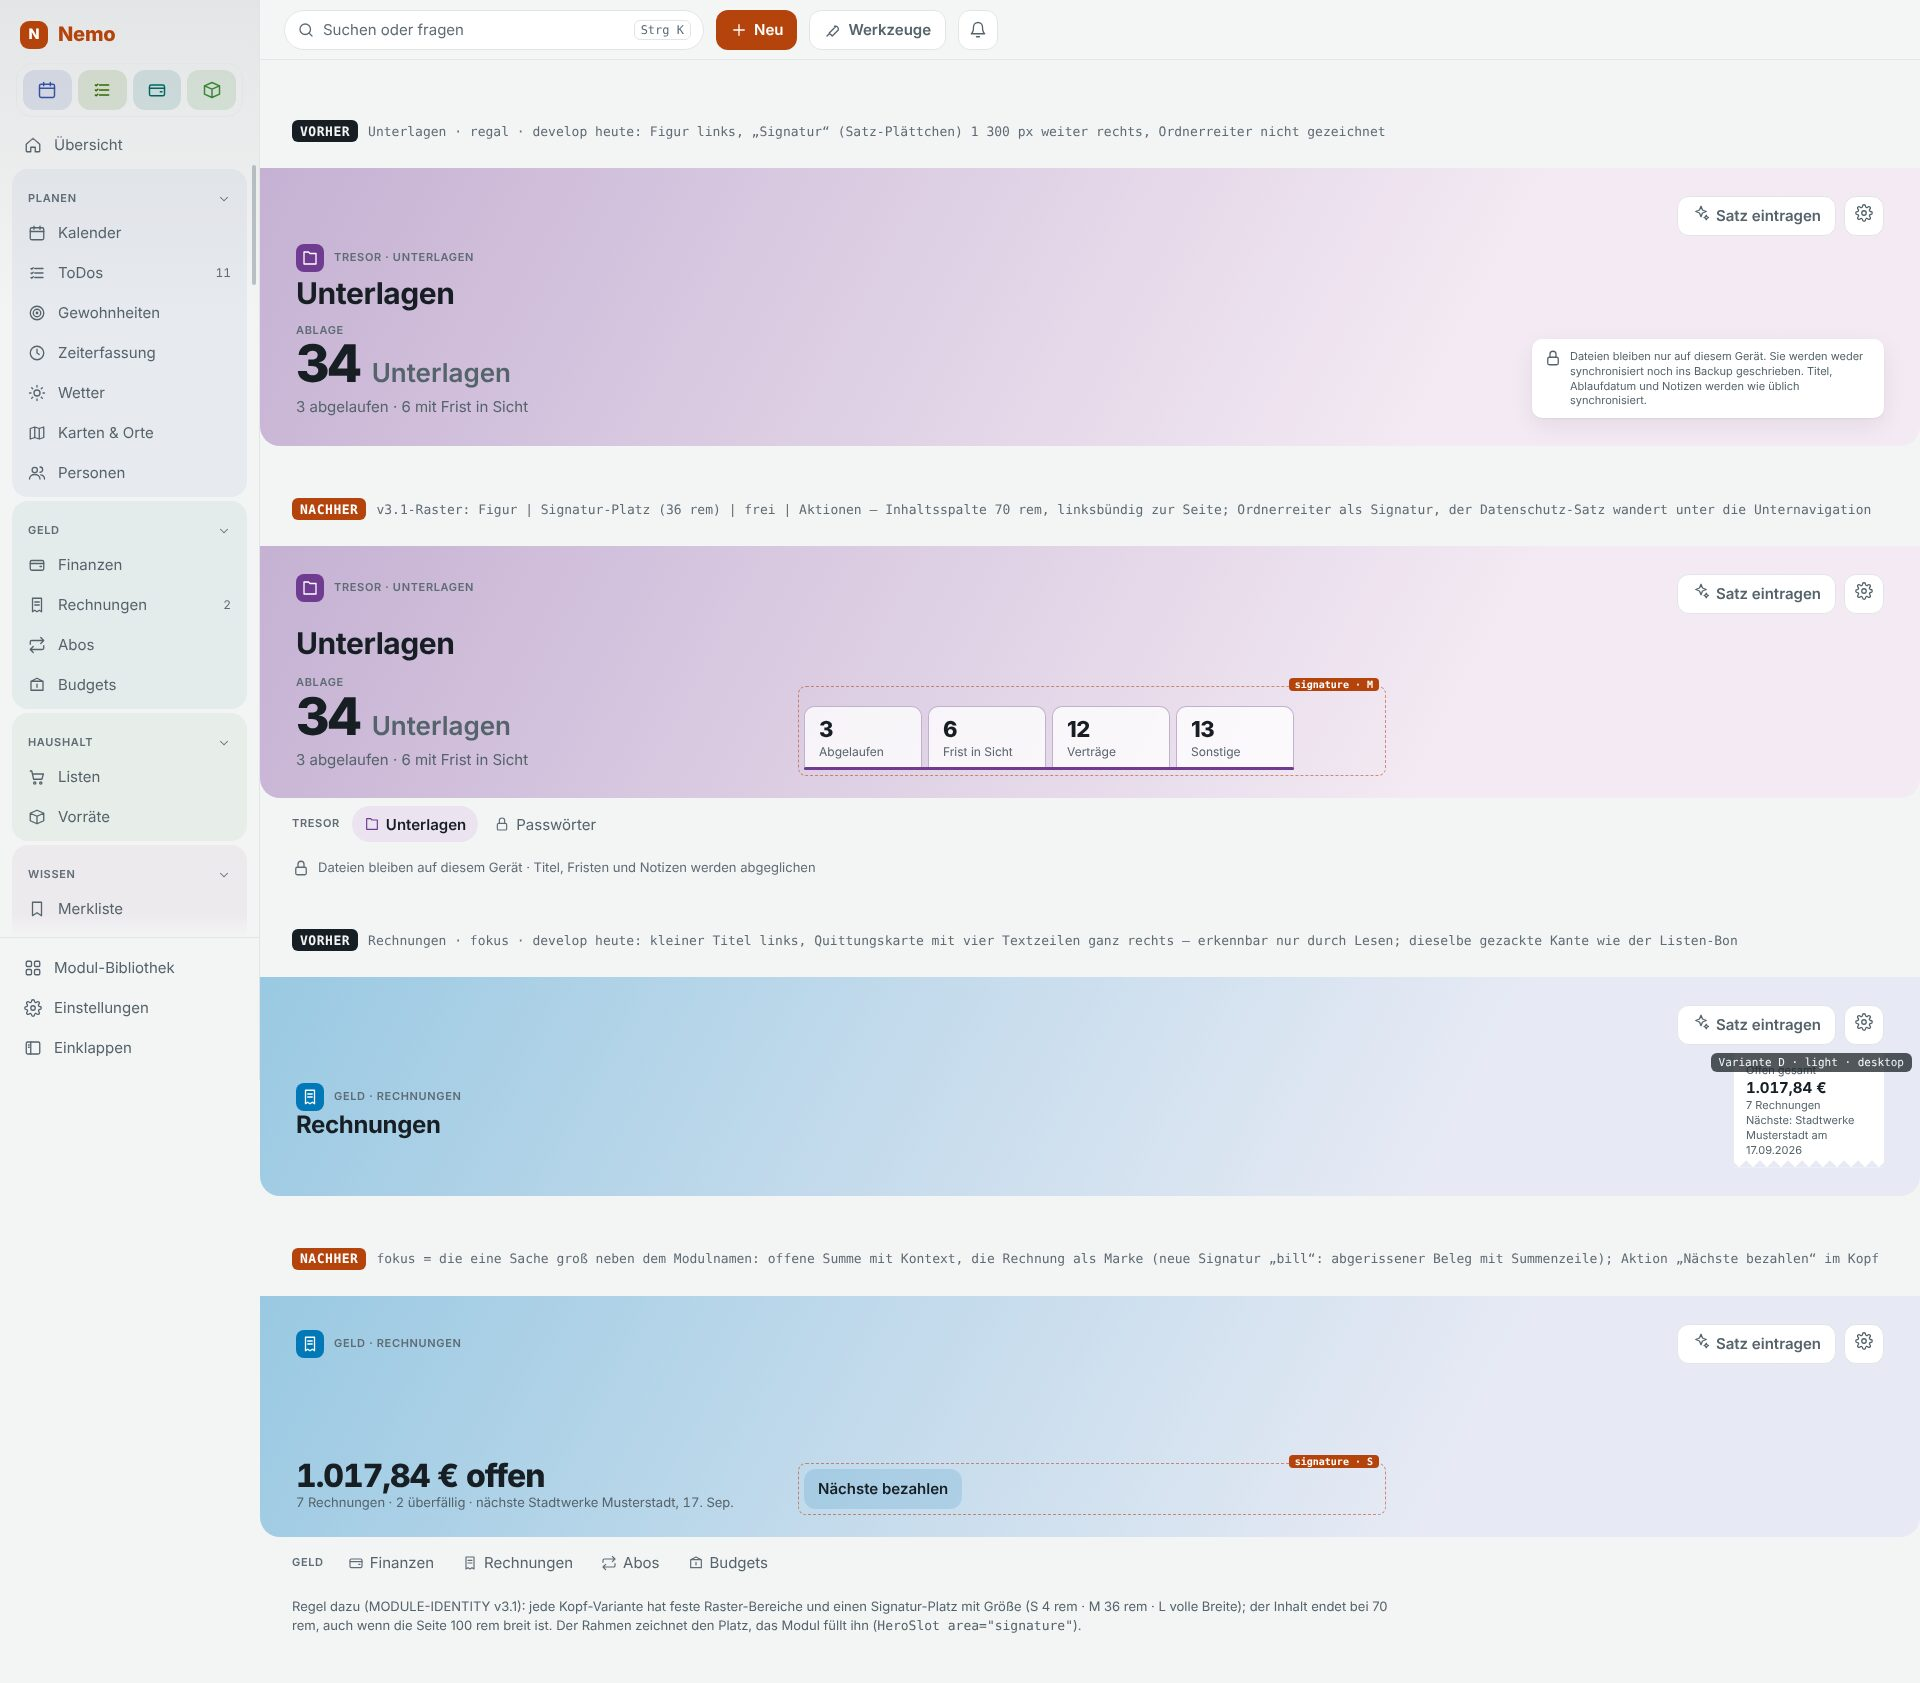
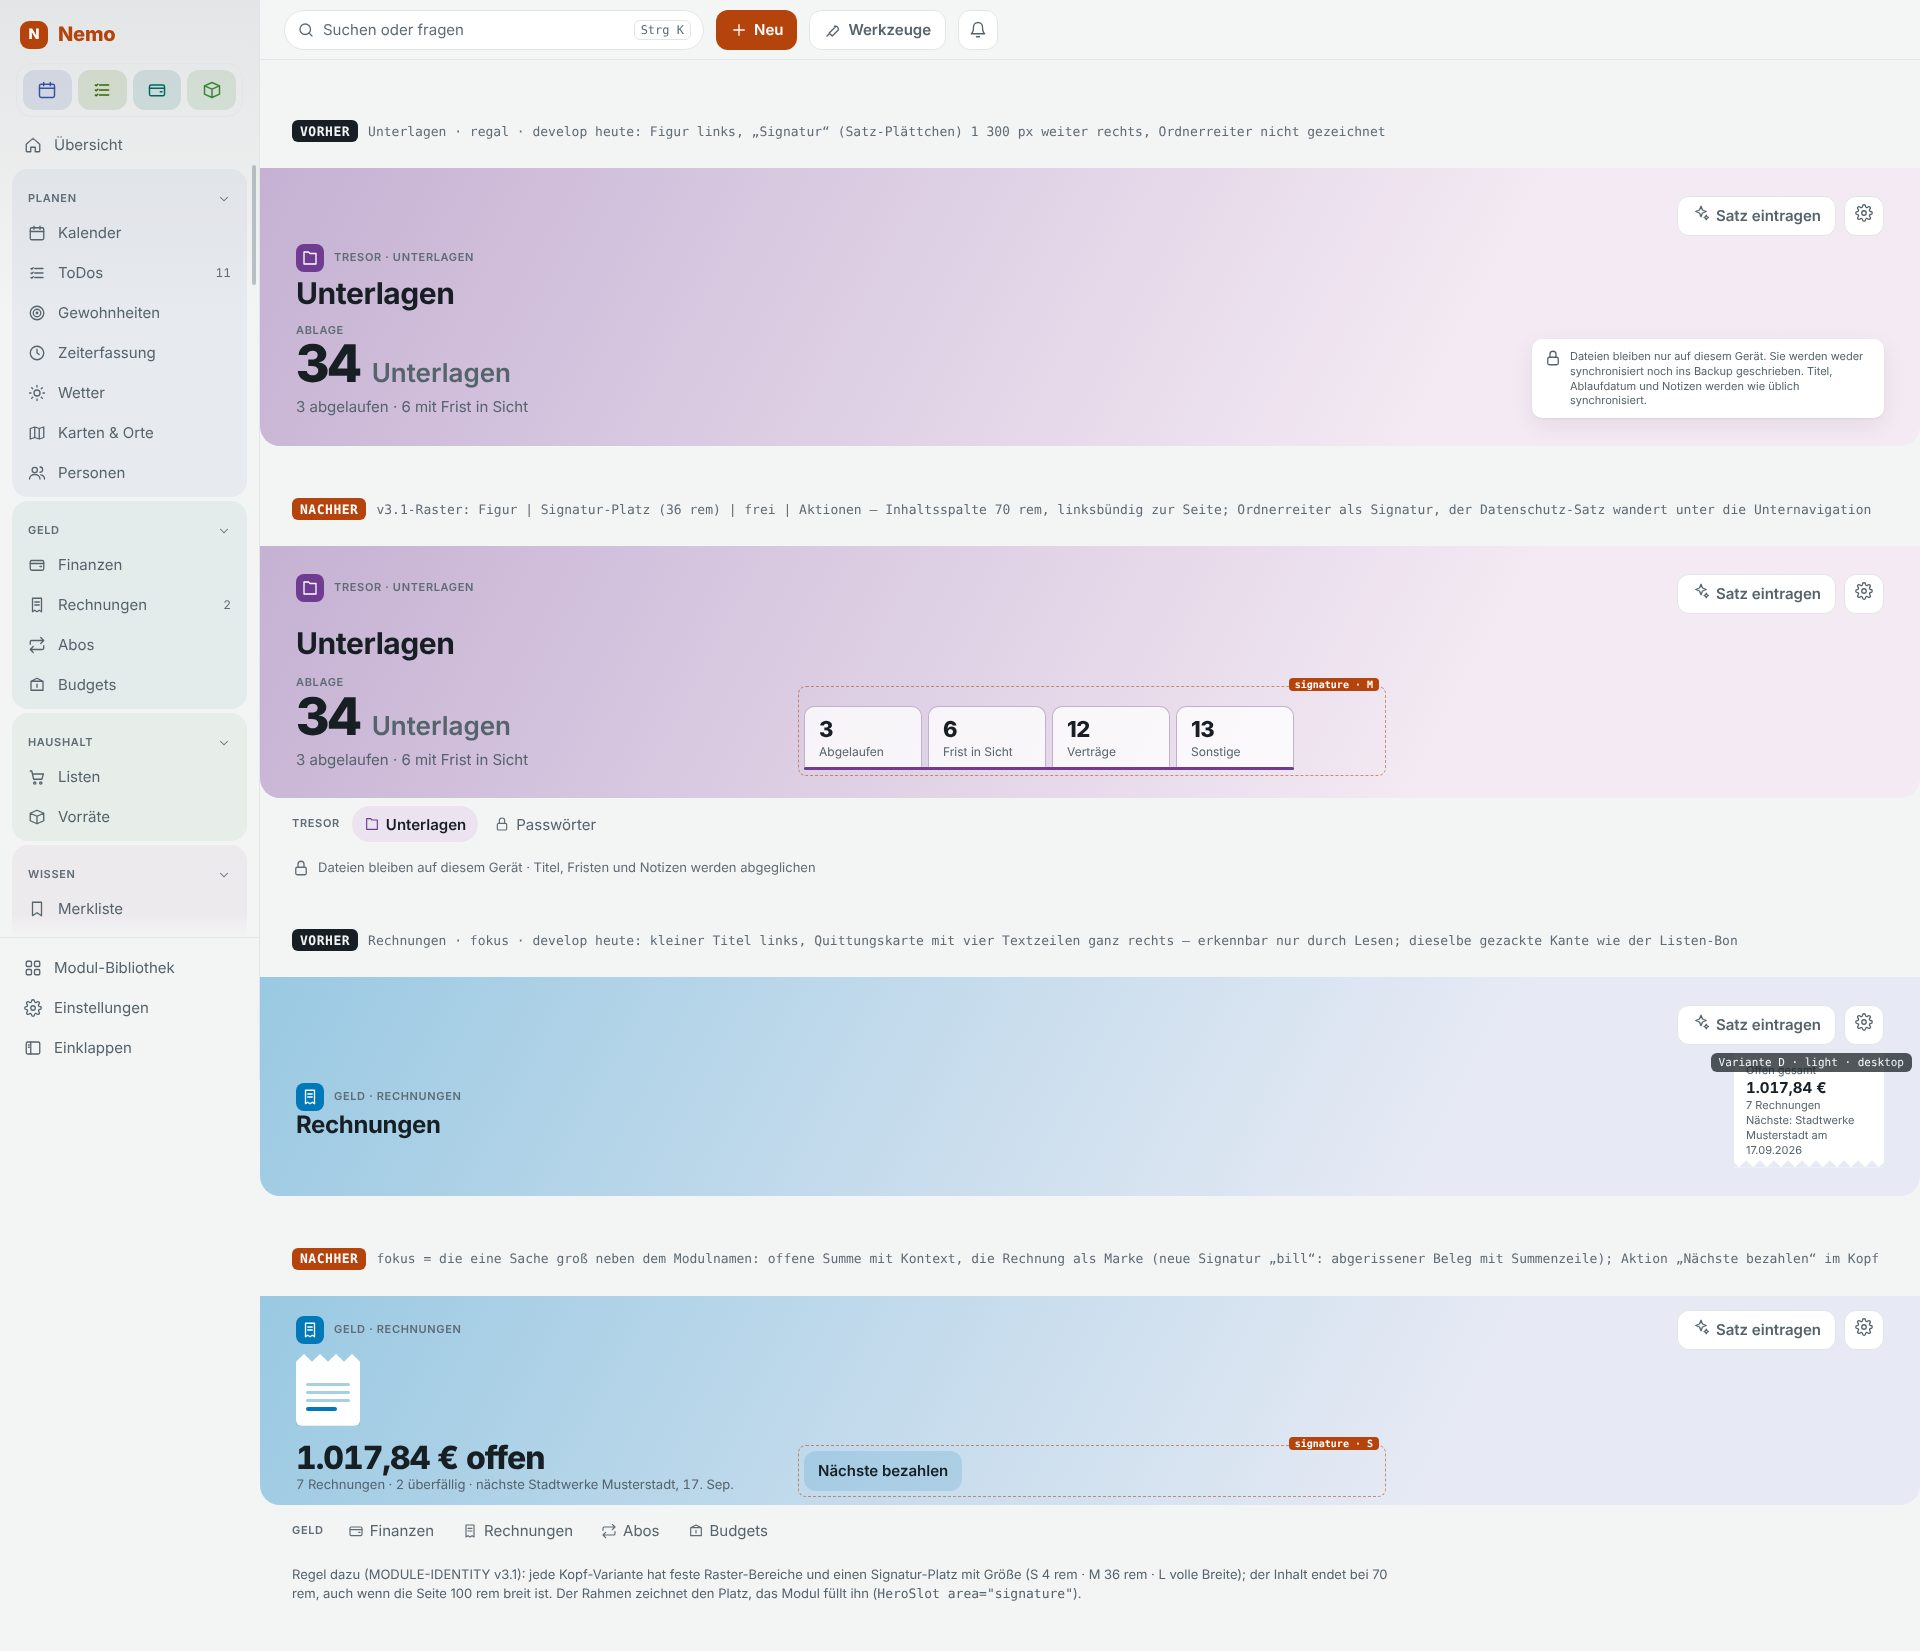
docs(design): audit mockups – compact head stays compact, bill mark visible
Claude-Session: https://claude.ai/code/session_019RrxT5ShwxKuUETA1qajVn

diff --git a/docs/design/identity-v3-audit/mockups/audit.css b/docs/design/identity-v3-audit/mockups/audit.css
@@ -62,3 +62,8 @@
 .wrow{display:grid;grid-template-columns:repeat(3,minmax(0,1fr));gap:16px;margin-top:6px}
 .wrow .w{grid-row:auto;min-height:150px}
 .note{font-size:.8125rem;color:var(--text-2);max-width:70rem}
+/* compact v3.1 heads stay compact; the bill mark is a plain shape (clip-path), no mask */
+.head.v31.compact{min-height:96px;padding-top:14px;padding-bottom:14px}
+.head.v31.compact .inner{gap:4px 28px}
+.head.v31.compact .figure{margin-top:0}
+.bill{-webkit-mask:none;mask:none;clip-path:polygon(0 8px,8px 0,16px 8px,24px 0,32px 8px,40px 0,48px 8px,56px 0,64px 8px,64px 100%,0 100%);border-radius:0 0 6px 6px}
